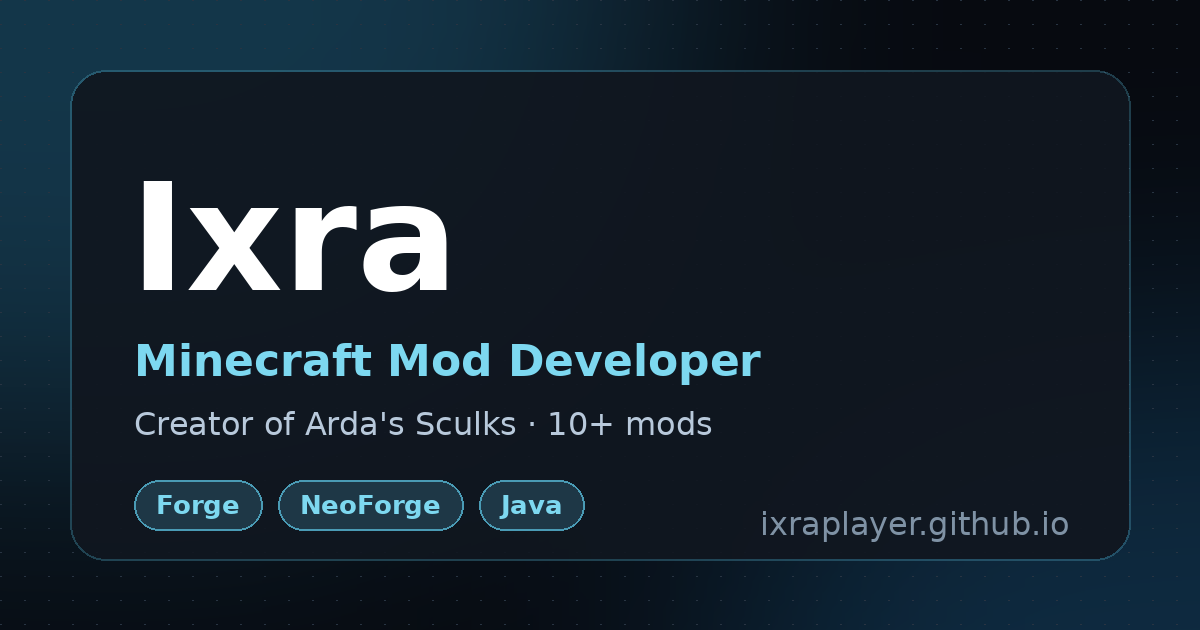
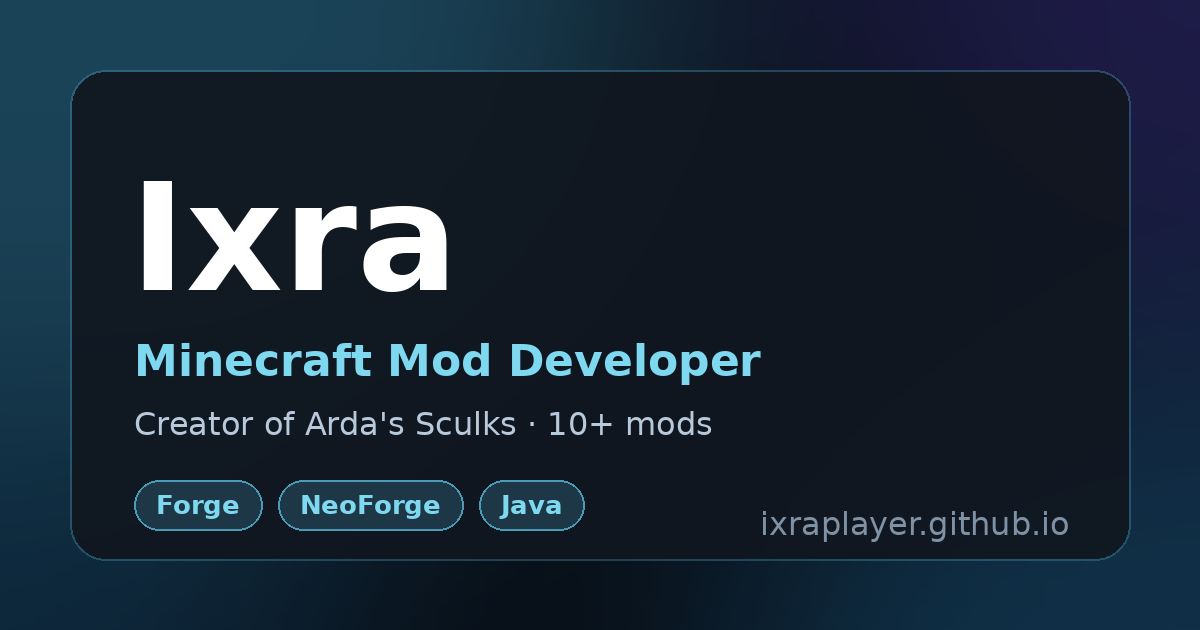
Add files via upload

Changed region(s): [[0.6475, 0.0, 1.0, 0.5429], [0.0, 0.6635, 0.2467, 1.0]]

diff --git a/style.css b/style.css
@@ -39,20 +39,24 @@ body {
     font-family: 'Inter', system-ui, -apple-system, 'Segoe UI', Roboto, sans-serif;
     padding: 24px 18px;
     background-color: var(--bg-body);
-    background-image:
-        radial-gradient(circle, rgba(255, 255, 255, 0.035) 1px, transparent 1.5px),
-        radial-gradient(ellipse 70% 70% at -20% -30%, rgba(74, 155, 181, 0.08) 0%, transparent 70%),
-        radial-gradient(ellipse 60% 60% at 115% 125%, rgba(30, 100, 140, 0.07) 0%, transparent 70%);
-    background-size: 24px 24px, 100% 100%, 100% 100%;
-    background-attachment: fixed;
     color: var(--text-primary);
     line-height: 1.5;
     overflow-x: hidden;
 }
 
-/* Mobilde background-attachment: fixed kaydırmayı yavaşlatır */
-@media (hover: none), (max-width: 700px) {
-    body { background-attachment: scroll; }
+/* Arkaplan: sadece statik gradyanlar (animasyon yok, resim yok = kasma yok).
+   Sabit bir katman olduğu için sayfa kayarken yeniden çizilmez. */
+body::before {
+    content: '';
+    position: fixed;
+    inset: 0;
+    z-index: -1;
+    pointer-events: none;
+    background:
+        radial-gradient(ellipse 65% 50% at 6% 0%,    rgba(74, 155, 181, 0.17), transparent 70%),
+        radial-gradient(ellipse 50% 45% at 100% 6%,  rgba(88, 80, 180, 0.10),  transparent 70%),
+        radial-gradient(ellipse 65% 55% at 94% 100%, rgba(30, 100, 140, 0.17), transparent 70%),
+        radial-gradient(ellipse 45% 40% at 0% 100%,  rgba(20, 70, 100, 0.10),  transparent 70%);
 }
 
 .page-wrapper { max-width: 980px; width: 100%; margin: 0 auto; }
